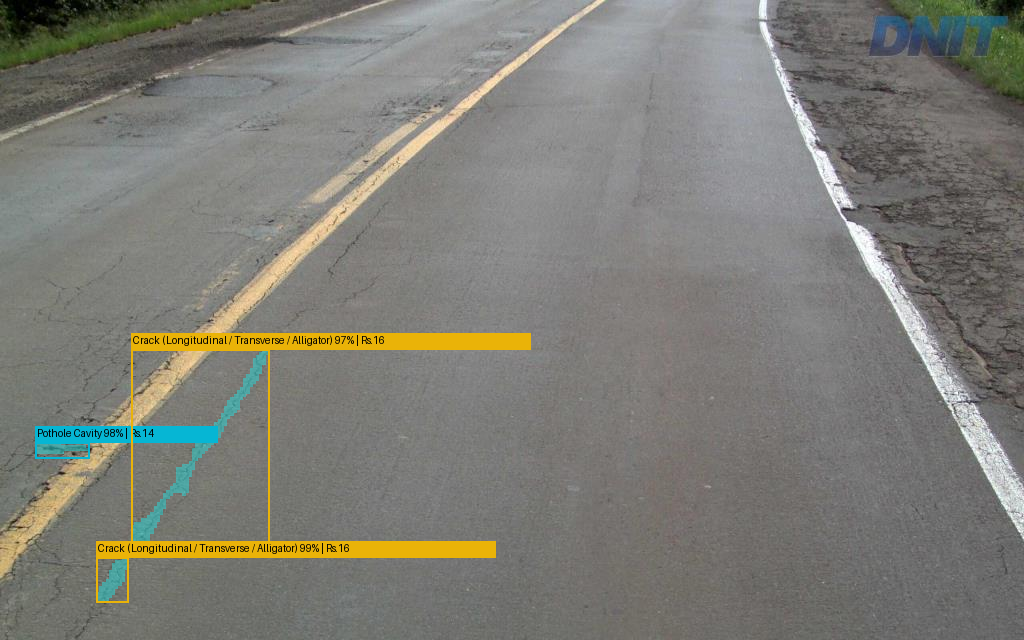
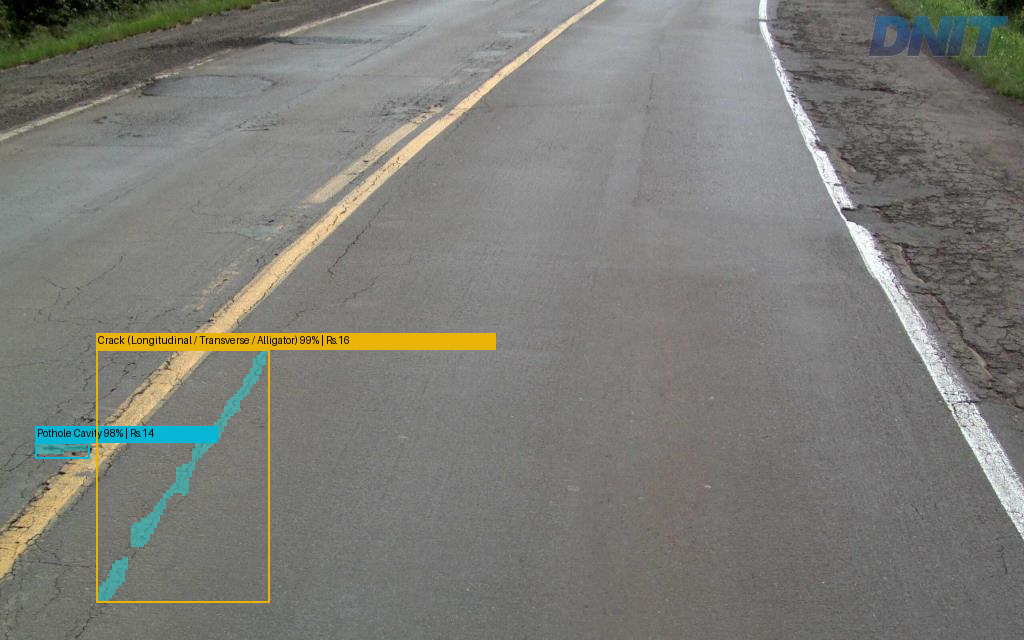
fix(pipeline): spatial proximity fusion unifies puddle center with rim fragments and clamps label bounds

Changed region(s): [[0.0938, 0.8438, 0.5, 0.875], [0.0938, 0.5, 0.3438, 0.5625], [0.4688, 0.5, 0.5312, 0.5625]]

diff --git a/web/inspect.html b/web/inspect.html
@@ -355,7 +355,7 @@ function draw() {
       const label = `${(d.class_name || "").split(" ")[0]} ${(d.confidence * 100).toFixed(0)}%`;
       ctx.font = "600 12px ui-monospace, monospace";
       const tw = ctx.measureText(label).width + 10;
-      let tagX = x;
+      let tagX = Math.max(0, Math.min(cv.width - tw, x));
       let tagY = Math.max(0, y - 19);
       for (const dl of drawnLabels) {
         if (Math.abs(tagX - dl.x) < (tw + 10) && Math.abs(tagY - dl.y) < 22) {

diff --git a/api/vercel_inference.py b/api/vercel_inference.py
@@ -1275,31 +1275,76 @@ def audit_image_base64(image_b64, corridor_id="NH-44", device_id=None, latitude=
             "source": prop["source"],
         })
 
-    # Deduplicate overlapping / nested bounding boxes (Non-Maximum Suppression & Containment)
+    # Spatial Proximity Fusion & Deduplication (Merges rim fragments, puddle center & adjoining defects)
     if len(detections) > 1:
         dets_sorted = sorted(detections, key=lambda d: (d["confidence"], d["surface_area_m2"]), reverse=True)
-        keep = []
+        merged = []
         for d in dets_sorted:
-            b1 = d["bbox_pixels"]
-            is_dup = False
-            for k in keep:
-                b2 = k["bbox_pixels"]
+            b1 = d.get("bbox_pixels")
+            if not b1:
+                merged.append(d)
+                continue
+            matched = None
+            for mi, md in enumerate(merged):
+                b2 = md.get("bbox_pixels")
+                if not b2 or d["class_id"] != md["class_id"]:
+                    continue
                 xi0 = max(b1[0], b2[0])
                 yi0 = max(b1[1], b2[1])
                 xi1 = min(b1[0] + b1[2], b2[0] + b2[2])
                 yi1 = min(b1[1] + b1[3], b2[1] + b2[3])
+                iou = 0.0
+                containment = 0.0
                 if xi1 > xi0 and yi1 > yi0:
                     inter = (xi1 - xi0) * (yi1 - yi0)
                     a1 = b1[2] * b1[3]
                     a2 = b2[2] * b2[3]
                     iou = inter / float(a1 + a2 - inter)
                     containment = inter / float(min(a1, a2))
-                    if iou > 0.20 or containment > 0.40:
-                        is_dup = True
-                        break
-            if not is_dup:
-                keep.append(d)
-        detections = keep
+
+                gap_x = max(0, max(b1[0], b2[0]) - min(b1[0] + b1[2], b2[0] + b2[2]))
+                gap_y = max(0, max(b1[1], b2[1]) - min(b1[1] + b1[3], b2[1] + b2[3]))
+                comb_w = max(b1[0] + b1[2], b2[0] + b2[2]) - min(b1[0], b2[0])
+                comb_h = max(b1[1] + b1[3], b2[1] + b2[3]) - min(b1[1], b2[1])
+                is_proximate = (
+                    gap_x <= int(W * 0.08)
+                    and gap_y <= int(H * 0.06)
+                    and comb_w <= int(W * 0.65)
+                    and comb_h <= int(H * 0.45)
+                )
+
+                if iou > 0.15 or containment > 0.30 or is_proximate:
+                    matched = mi
+                    break
+
+            if matched is None:
+                merged.append(d)
+            else:
+                md = merged[matched]
+                b2 = md["bbox_pixels"]
+                nx = min(b1[0], b2[0])
+                ny = min(b1[1], b2[1])
+                nw = max(b1[0] + b1[2], b2[0] + b2[2]) - nx
+                nh = max(b1[1] + b1[3], b2[1] + b2[3]) - ny
+                md["bbox_pixels"] = [nx, ny, nw, nh]
+                md["bbox_normalized"] = [round(nx / W, 4), round(ny / H, 4), round(nw / W, 4), round(nh / H, 4)]
+                md["confidence"] = max(d["confidence"], md["confidence"])
+                if d.get("area_method") == "segmentation_mask" or md.get("area_method") == "segmentation_mask":
+                    md["area_method"] = "segmentation_mask"
+                if md.get("area_method") != "segmentation_mask":
+                    md["surface_area_m2"] = round(float(ipm.calculate_surface_area_sqm(nx, ny, nw, nh)), 4)
+                box_share = (nw * nh) / float(W * H)
+                md["area_diagnostics"]["box_share_of_frame"] = round(box_share, 3)
+                de = _photometric_depth(gray, [nx, ny, nw, nh], md["class_id"])
+                md["depth_cm"] = de["depth_cm"]
+                md["depth_estimate"] = de
+                md["volumetric_m3"] = round(md["surface_area_m2"] * (de["depth_cm"] / 100.0), 5)
+                tonnage_t = round(md["surface_area_m2"] * (de["depth_cm"] / 100.0) * 2.40 * 1.15, 4)
+                md["morth_tonnage_t"] = tonnage_t
+                md["repair_cost_inr"] = round(tonnage_t * 7500.0, 2)
+                de["repair_cost_low_inr"] = round(md["surface_area_m2"] * (de["depth_low_cm"] / 100.0) * 2.40 * 1.15 * 7500.0, 2)
+                de["repair_cost_high_inr"] = round(md["surface_area_m2"] * (de["depth_high_cm"] / 100.0) * 2.40 * 1.15 * 7500.0, 2)
+        detections = merged
 
     # Sort detections by significance (potholes first, then largest surface area) and keep top 4
     detections.sort(key=lambda d: (1 if d["class_id"] == 2 else 0, d["surface_area_m2"]), reverse=True)
